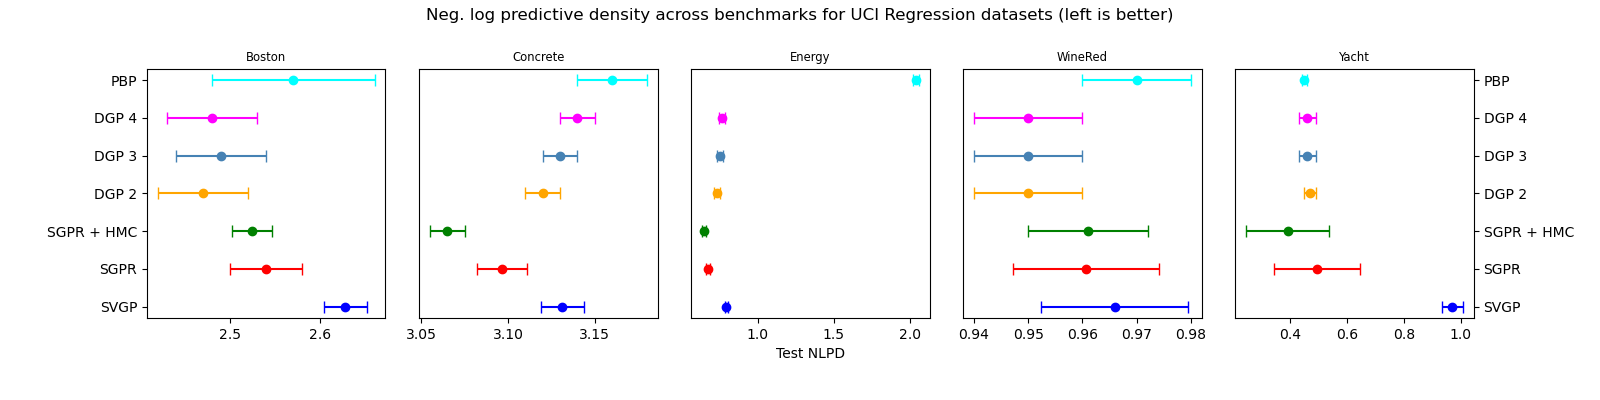
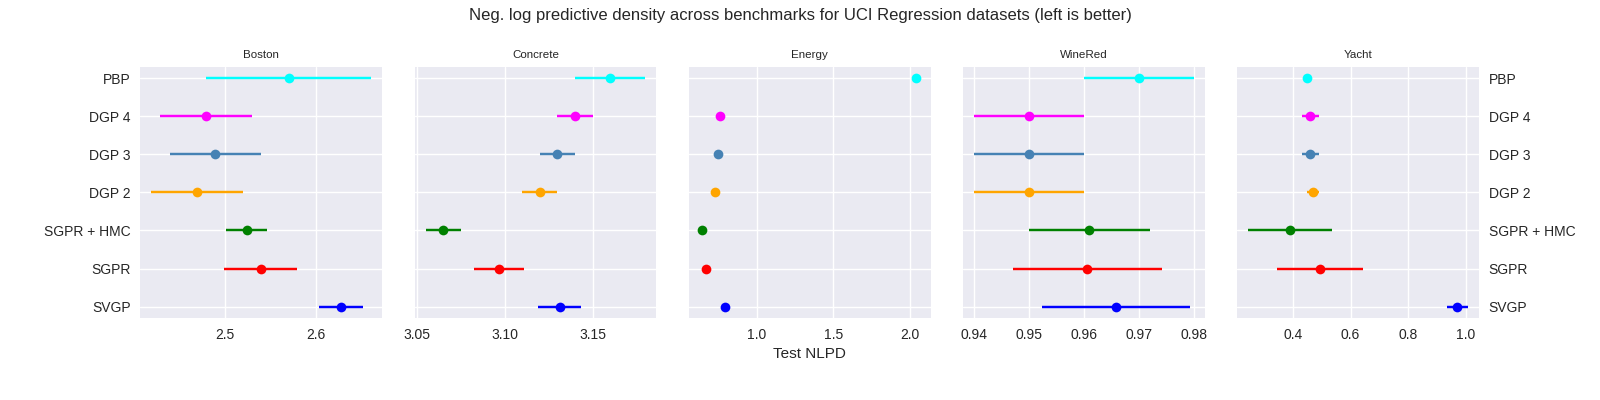
new plots

diff --git a/experiments/sampler_runtimes.py b/experiments/sampler_runtimes.py
@@ -11,28 +11,30 @@ from utils.config import RESULTS_DIR
 
 filename = 'sampler_runtimes.csv'
 df = pd.read_csv(filename, sep=',')
-fig = plt.figure(figsize=(16,4))
 
-_ax = fig.add_subplot(111, frame_on=False)
-_ax.tick_params(labelcolor='w', top=False, bottom=False, left=False, right=False)
-colors = ['orange', 'steelblue','green']
 dataset_name = ['Boston', 'Concrete', 'Energy', 'WineRed', 'Yacht']
+sgpr_hmc = np.array(df[df['Model'] == 'SGPR + HMC'][dataset_name])
+joint_hmc = np.array(df[df['Model'] == 'JointHMC'][dataset_name])
+gpr_hmc = np.array(df[df['Model'] == 'GPR + HMC'][dataset_name])
 
-for _ in range(5): # iterate over subplots
-    n_plot = _ + 1
-    ax = fig.add_subplot(1,5,n_plot) 
-    for m in range(7): # iterate over models within each subplot
-        mean = df[[col for col in df if col.startswith(dataset_name[m])][0]][_]
-        se = df[[col for col in df if col.startswith(dataset_name[m])][1]][_]
-        ax.errorbar(x=mean, y=m, xerr=se, c=colors[m], marker='o', barsabove=True, capsize=4)
-    ax.set_title(df['dataset_name'][_], fontsize='small')
-    if (n_plot == 1):
-        ax.set_yticks(ticks=np.arange(7))
-        ax.set_yticklabels(labels=models)
-    elif (n_plot == 5):
-        ax.set_yticks(ticks=np.arange(7))
-        ax.set_yticklabels(labels=models)
-        ax.yaxis.set_ticks_position('right')
-    else:
-       ax.set_yticks(ticks=np.arange(7))
-       ax.tick_params(axis='y', labelcolor="none", left=False)
+sgpr_hmc_se = np.array(df[[col for col in df if col.endswith('se')]])[0]
+joint_hmc_se = np.array(df[[col for col in df if col.endswith('se')]])[1]
+gpr_hmc_se = np.array(df[[col for col in df if col.endswith('se')]])[2]
+
+x = np.arange(len(dataset_name))  # the label locations
+width = 0.35  # the width of the bars
+
+fig, ax = plt.subplots()
+rects1 = ax.bar(x - width/3, gpr_hmc.squeeze(), width, yerr=gpr_hmc_se, label='GPR + HMC', color='orange',capsize=5, ecolor='black')
+rects2 = ax.bar(x + width/2, joint_hmc.squeeze(), width, yerr=joint_hmc_se, label='JointHMC', color='steelblue')
+rects3 = ax.bar(x + width, sgpr_hmc.squeeze(), width, yerr=sgpr_hmc_se, label='SGPR + HMC', color='green')
+
+# Add some text for labels, title and custom x-axis tick labels, etc.
+ax.set_ylabel('Total sampling seconds')
+ax.set_title('Wall clock seconds for total MCMC samples')
+plt.xticks(x, dataset_name)
+ax.legend()
+ax.set_yscale('log')
+fig.tight_layout()
+plt.savefig(RESULTS_DIR/'sampling_seconds.png')
+

diff --git a/experiments/nlpd_benchmarks_plot.py b/experiments/nlpd_benchmarks_plot.py
@@ -10,6 +10,8 @@ import numpy as np
 import matplotlib.pyplot as plt
 from utils.config import RESULTS_DIR
 
+plt.style.use('seaborn')
+
 filename = 'benchmarks_nlpd.csv'
 df = pd.read_csv(filename, sep=',')
 fig = plt.figure(figsize=(16,4))
@@ -48,7 +50,7 @@ df = pd.read_csv(filename, sep=',')
 fig = plt.figure(figsize=(16,4))
 _ax = fig.add_subplot(111, frame_on=False)
 _ax.tick_params(labelcolor='w', top=False, bottom=False, left=False, right=False)
-colors = ['b', 'magenta', 'steelblue', 'green', 'r','orange']
+colors = ['b', 'magenta', 'steelblue', 'r', 'g','orange']
 model_cols = ['svgp_', 'fixed_z', 'sgpmc_', 'sgpr_', 'sgpr_hmc_', 'gpr_hmc']
 models = ['SVGP', 'SGPR + HMC (Fix Z)', 'JointHMC', 'SGPR (ML-II)', 'SGPR + HMC (Adapt Z)','GPR + HMC']
 #models = df.columns[3:]

diff --git a/models/sgp_hmc.py b/models/sgp_hmc.py
@@ -52,7 +52,7 @@ def train_sgp_hmc(data, Z_init, input_dims, tune, num_samples):
     
     # Initial warm-up (as per gpflow tutorial)
     optimizer = gpflow.optimizers.Scipy()
-    optimizer.minimize(model.training_loss, model.trainable_variables, options={"maxiter": 50})
+    optimizer.minimize(model.training_loss, model.trainable_variables, options={"maxiter": 100})
     set_trainable(model.inducing_variable, False)
 
     ## HMC step
